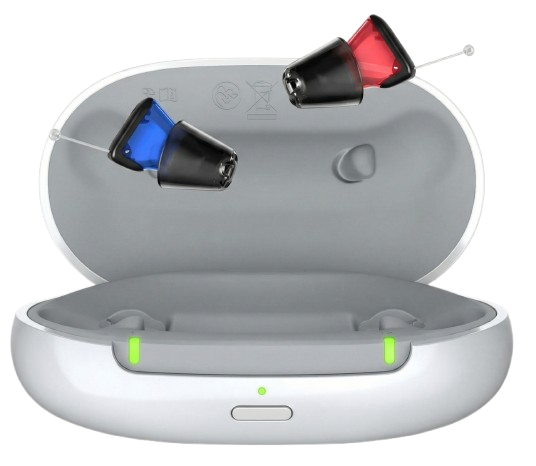
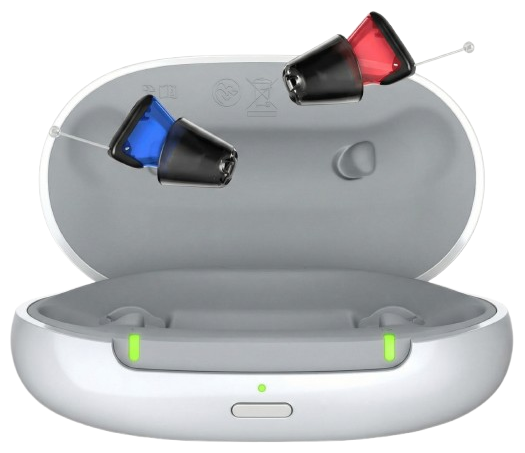
feat(landing): update Widex hero image and brand/clinic landing footer components

diff --git a/src/app/landing/brand-near-me/[brand]/page.tsx b/src/app/landing/brand-near-me/[brand]/page.tsx
@@ -10,6 +10,7 @@ import FAQAccordion from "./FAQAccordion";
 import { PopupTrigger } from "./PopupTrigger";
 import PopupModal from "./PopupModal";
 import HeroCarousel from "./HeroCarousel";
+import Footer from "@/components/landingHero/fotern";
 import { notFound } from "next/navigation";
 import type { Metadata } from "next";
 import { FaFacebook, FaInstagram, FaYoutube, FaLinkedin } from "react-icons/fa";
@@ -125,28 +126,27 @@ const BRANDS: Record<BrandKey, BrandConfig> = {
   phonak: {
     name: "Phonak",
     seoTitle: "Phonak Hearing Aid Near You | Authorized Clinic – Free Test & Best Price",
-    seoDescription: "Find the nearest authorized Phonak hearing aid clinic. Free hearing test, certified audiologists & best price. Phonak prices from ₹18,000. Book free appointment today.",
+    seoDescription: "Find the nearest authorized Phonak hearing aid clinic. Free hearing test, certified audiologists & best price. Phonak prices from ₹15,000. Book free appointment today.",
     heroH1: "Phonak Hearing Aids Price List 2026",
     heroSubtitle: "Discover the 2026 Phonak Collection. Experience Swiss precision with a Free Clinical Trial at your nearest authorized Phonak center.",
-    urgencyBar: "Limited Trial Slots Available — Authorized Phonak Partner",
+    urgencyBar: "Limited Free Trial Slots Available — Authorized Phonak Partner",
     heroBullets: [
       { icon: <BadgePercent className="w-4 h-4 text-green-600" />, iconBg: "bg-green-100", text: `Save up to <span class="text-green-600 font-bold">₹31,500</span> on Phonak aids` },
-      { icon: <EyeOff className="w-4 h-4 text-blue-600" />, iconBg: "bg-blue-100", text: "Ultra clear sound with Phonak AutoSense AI" },
-      { icon: <HeartHandshake className="w-4 h-4 text-purple-600" />, iconBg: "bg-purple-100", text: "Free Hearing Test at Nearest Clinic" },
+      { icon: <EyeOff className="w-4 h-4 text-blue-600" />, iconBg: "bg-blue-100", text: "Universal Bluetooth — Any Phone" },
+      { icon: <HeartHandshake className="w-4 h-4 text-purple-600" />, iconBg: "bg-purple-100", text: "Swiss Engineering — Lifetime Durability" },
     ],
     ctaText: "Download Phonak Price List",
     heroImages: [
-      { src: "/Phonak-Audeo-Lumity-Slim-hero-webp.webp", alt: "Phonak Audeo Lumity" },
-      { src: "/phonak-infinio-hero.webp", alt: "Phonak Infinio" },
-      { src: "/phonak-audeo-p-hero.webp", alt: "Phonak Audeo P" },
+      { src: "/hearwave/phonak-hero-final.png", alt: "Phonak Hearing Aid" },
     ],
     formHeading: "Download Phonak Prices & Claim Free Trial",
     formSubtitle: "Get the full 2026 Phonak Price List instantly — free callback within minutes.",
-    productSectionHeading: "2026 Phonak Model Comparison",
+    productSectionHeading: "Phonak 2026 Model Comparison",
     tableProducts: [
-      { name: "Phonak Audeo Lumity", image: "/Phonak-Audeo-Lumity-Slim-hero-webp.webp", bestFor: "Versatility", features: "SmartSpeech Tech, Universal Bluetooth, Waterproof", tech: "Advanced", techColor: "bg-blue-50 text-blue-700 border-blue-100" },
-      { name: "Phonak Infinio", image: "/phonak-infinio-hero.webp", bestFor: "Best Performance", features: "Chip-based AI, Hands-free calls, Slim RIC", tech: "Premium AI", techColor: "bg-purple-50 text-purple-700 border-purple-100" },
-      { name: "Phonak Audeo P", image: "/phonak-audeo-p-hero.webp", bestFor: "Smart Lifestyle", features: "AutoSense OS, Health Tracking, Falls Detection", tech: "Advanced", techColor: "bg-blue-50 text-blue-700 border-blue-100" },
+      { name: "Phonak Terra+", image: "/hearwave/phonak-terra-plus.png", bestFor: "First-time users", features: "Clear Sound, Swiss Engineering, Lightweight", tech: "Essential", techColor: "bg-green-50 text-green-700 border-green-100" },
+      { name: "Phonak Sky Lumity", image: "/hearwave/phonak-sky-lumity.png", bestFor: "Children", features: "Pediatric Optimised, Rugged Design, Bluetooth", tech: "Advanced", techColor: "bg-blue-50 text-blue-700 border-blue-100" },
+      { name: "Phonak Naída Lumity", image: "/hearwave/phonak-naida-lumity.png", bestFor: "Severe hearing loss", features: "High Power BTE, SmartSpeech, Roger Ready", tech: "Advanced", techColor: "bg-blue-50 text-blue-700 border-blue-100" },
+      { name: "Phonak Audéo Infinio", image: "/hearwave/phonak-audeo-infinio.jpg", bestFor: "Premium users", features: "AutoSense OS 5.0, Dual Bluetooth, Waterproof", tech: "Premium AI", techColor: "bg-purple-50 text-purple-700 border-purple-100" },
     ],
     reviewTexts: [
       "Got my Phonak Audeo fitted at Insono. The AutoSense AI is incredible — adjusts automatically in every environment. Highly recommend!",
@@ -160,10 +160,10 @@ const BRANDS: Record<BrandKey, BrandConfig> = {
   widex: {
     name: "Widex",
     seoTitle: "Widex Hearing Aid Near You | Authorized Clinic – Free Test & Best Price",
-    seoDescription: "Find the nearest authorized Widex hearing aid clinic. Free hearing test, certified audiologists & best price. Widex prices from ₹20,000. Book free appointment today.",
+    seoDescription: "Find the nearest authorized Widex hearing aid clinic. Free hearing test, certified audiologists & best price. Widex prices from ₹15,000. Book free appointment today.",
     heroH1: "Widex Hearing Aids Price List 2026",
     heroSubtitle: "Experience the world's most natural hearing technology with a Free Clinical Trial at your nearest authorized Widex center.",
-    urgencyBar: "Limited Trial Slots Available — Authorized Widex Partner",
+    urgencyBar: "Limited Free Trial Slots Available — Authorized Widex Partner",
     heroBullets: [
       { icon: <BadgePercent className="w-4 h-4 text-green-600" />, iconBg: "bg-green-100", text: `Save up to <span class="text-green-600 font-bold">₹31,500</span> on Widex aids` },
       { icon: <EyeOff className="w-4 h-4 text-blue-600" />, iconBg: "bg-blue-100", text: "Natural sound with Widex PureSound technology" },
@@ -171,14 +171,16 @@ const BRANDS: Record<BrandKey, BrandConfig> = {
     ],
     ctaText: "Download Widex Price List",
     heroImages: [
-      { src: "/signia_bct2.png", alt: "Widex Hearing Aid" },
+      { src: "/hearwave/widex-hero.png", alt: "Widex Hearing Aid" },
     ],
     formHeading: "Download Widex Prices & Claim Free Trial",
     formSubtitle: "Get the full 2026 Widex Price List instantly — free callback within minutes.",
-    productSectionHeading: "2026 Widex Model Comparison",
+    productSectionHeading: "Widex 2026 Model Comparison",
     tableProducts: [
-      { name: "Widex MOMENT Sheer", image: "/signia_bct2.png", bestFor: "Purest Sound", features: "ZeroDelay Tech, Natural Sound, Rechargeable", tech: "Advanced", techColor: "bg-blue-50 text-blue-700 border-blue-100" },
-      { name: "Widex EVOKE 440", image: "/signia_bct2.png", bestFor: "AI Powered", features: "Machine Learning, Fluid Sound, App Control", tech: "Premium AI", techColor: "bg-purple-50 text-purple-700 border-purple-100" },
+      { name: "Widex MOMENT Sheer", image: "/hearwave/widex-hero.png", bestFor: "Purest Sound", features: "ZeroDelay Tech, Natural Sound, Rechargeable", tech: "Advanced", techColor: "bg-blue-50 text-blue-700 border-blue-100" },
+      { name: "Widex EVOKE 440", image: "/lp/widex2.png", bestFor: "AI Powered", features: "Machine Learning, Fluid Sound, App Control", tech: "Premium AI", techColor: "bg-purple-50 text-purple-700 border-purple-100" },
+      { name: "Widex MOMENT IIC", image: "/lp/widex3.png", bestFor: "Discreet Fit", features: "Invisible In-Canal, Custom Fit, PureSound", tech: "Advanced", techColor: "bg-blue-50 text-blue-700 border-blue-100" },
+      { name: "Widex Magnify", image: "/lp/widex4.png", bestFor: "Great Value", features: "Rechargeable, Smartphone Streaming, Comfort", tech: "Essential", techColor: "bg-green-50 text-green-700 border-green-100" },
     ],
     reviewTexts: [
       "Got my Widex Moment fitted at Insono. The PureSound technology is incredible — the most natural sound I've ever heard. Highly recommend!",
@@ -244,7 +246,7 @@ export default async function BrandNearMePage({ params }: { params: Promise<{ br
       <style dangerouslySetInnerHTML={{
         __html: `
           header.bg-transparent,
-          footer,
+          footer:not(.landing-footer),
           div.fixed.bottom-0.left-0.right-0:not(.bnm-bottom-bar) { display: none !important; }
           body { padding-top: 0 !important; }
           @keyframes bnm-up {
@@ -707,20 +709,7 @@ export default async function BrandNearMePage({ params }: { params: Promise<{ br
       </section>
 
       {/* ── FOOTER ── */}
-      <footer className="py-12 md:py-16 bg-white border-t border-slate-100 text-center">
-        <div className="max-w-7xl mx-auto px-4 md:px-8 lg:px-12 flex flex-col items-center">
-          <Image src="/logo.webp" alt="Insono Logo" width={130} height={42} className="h-10 w-auto object-contain mb-6" />
-          <div className="flex space-x-6 mb-6 text-slate-400">
-            <a href="https://youtube.com/@insonohearing" target="_blank" rel="noopener noreferrer" className="hover:text-[#184A99] transition-colors"><FaYoutube size={20} /></a>
-            <a href="https://www.instagram.com/insono_hearing_solutions" target="_blank" rel="noopener noreferrer" className="hover:text-[#184A99] transition-colors"><FaInstagram size={20} /></a>
-            <a href="https://www.facebook.com/insonohearingsolution" target="_blank" rel="noopener noreferrer" className="hover:text-[#184A99] transition-colors"><FaFacebook size={20} /></a>
-            <a href="https://www.linkedin.com/company/insonohearing" target="_blank" rel="noopener noreferrer" className="hover:text-[#184A99] transition-colors"><FaLinkedin size={20} /></a>
-          </div>
-          <p className="text-slate-400 text-sm font-medium">
-            © 2026 Insono Hearing Solutions · {config.footerLabel}. All rights reserved.
-          </p>
-        </div>
-      </footer>
+      <Footer />
 
       {/* ── MOBILE STICKY BOTTOM BAR ── */}
       <div className="bnm-bottom-bar md:hidden fixed bottom-0 left-0 right-0 z-[9999] bg-white shadow-[0_-4px_20px_rgba(0,0,0,0.1)] border-t border-slate-100 flex">

diff --git a/src/app/landing/brand-near-me/[brand]/FAQAccordion.tsx b/src/app/landing/brand-near-me/[brand]/FAQAccordion.tsx
@@ -23,22 +23,18 @@ const BRAND_FAQS: Record<BrandKey, { q: string; a: string }[]> = {
     { q: "Is EMI available on Signia?", a: "Yes, 0% EMI available on selected Signia models." },
   ],
   phonak: [
-    { q: "What is the price of Phonak hearing aids?", a: "Phonak hearing aid prices start from ₹18,000. Call us for the latest offers and discounts." },
-    { q: "Where can I buy Phonak hearing aid near me?", a: "From our authorized Phonak clinic nearest to you. Fill the form to get the address and book a free appointment." },
-    { q: "Are Phonak hearing aids rechargeable?", a: "Yes, premium Phonak rechargeable models are available with full-day battery life." },
-    { q: "Does Phonak support Bluetooth?", a: "Yes, direct calls & music streaming is supported on premium Phonak models." },
-    { q: "Which Phonak model is best?", a: "Audeo Lumity & Paradise series are the most popular. Our audiologist will guide you based on your hearing profile." },
-    { q: "Is EMI available on Phonak?", a: "Yes, 0% EMI options are available on selected Phonak models." },
-    { q: "What warranty comes with Phonak?", a: "2–4 years manufacturer warranty included with all Phonak models." },
+    { q: "What is the price of Phonak hearing aids in India?", a: "Phonak hearing aid prices in India start from ₹15,000. Exact pricing depends on the model and technology level. Fill the form above to unlock the complete Phonak 2026 price list." },
+    { q: "Does Insono offer EMI on Phonak hearing aids?", a: "Yes, 0% EMI options starting from ₹2,500/month are available on selected Phonak hearing aid models." },
+    { q: "Why is Phonak considered the best for connectivity?", a: "Phonak hearing aids feature universal Bluetooth technology that connects directly to any smartphone (Android & iPhone), smart TVs, and laptops for crystal clear calls and audio streaming." },
+    { q: "Does Insono provide home trials for Phonak?", a: "Yes, we offer free clinical trials and home trials so you can experience Phonak sound quality in your daily environment before purchasing." },
+    { q: "Is there an exchange offer for my old hearing aids?", a: "Yes! We offer attractive trade-in and exchange discounts when upgrading your old hearing aid to a new 2026 Phonak model." },
   ],
   widex: [
-    { q: "What is the price of Widex hearing aids?", a: "Widex hearing aids start from ₹20,000 onwards. Prices vary based on model and technology level." },
-    { q: "Are Widex hearing aids rechargeable?", a: "Yes, Widex Moment series is available in rechargeable variants with all-day battery." },
-    { q: "Does Widex support Bluetooth?", a: "Yes, Widex supports Bluetooth for calls & music on compatible devices." },
-    { q: "What warranty does Widex provide?", a: "Widex provides up to 4 years of manufacturer warranty on most models." },
-    { q: "Which Widex model is best?", a: "Widex Moment is the most popular model known for its PureSound technology." },
-    { q: "Is EMI available on Widex?", a: "Yes, easy EMI options are available on Widex hearing aids." },
-    { q: "Do you offer free hearing test for Widex?", a: "Yes, free audiologist consultation and hearing test is available." },
+    { q: "What is the price of Widex hearing aids in India?", a: "Widex hearing aid prices in India start from ₹15,000. Exact pricing depends on the model and technology level. Fill the form above to unlock the complete Widex 2026 price list." },
+    { q: "Does Insono offer EMI on Widex hearing aids?", a: "Yes, 0% EMI options starting from ₹2,500/month are available on selected Widex hearing aid models." },
+    { q: "What makes Widex PureSound technology unique?", a: "Widex PureSound eliminates the artificial, delayed sound common in other hearing aids, providing the most natural sound experience." },
+    { q: "Are Widex hearing aids rechargeable?", a: "Yes, Widex MOMENT series features ultra-compact rechargeable options with all-day battery life." },
+    { q: "Does Insono offer free hearing test for Widex?", a: "Yes, we offer a 100% FREE hearing test & trial by certified Widex audiologists at our nearest clinic." },
   ],
 };
 

diff --git a/src/app/landing/clinic/[city]/page.tsx b/src/app/landing/clinic/[city]/page.tsx
@@ -7,8 +7,8 @@ import { PopupTrigger } from "../PopupTrigger";
 import PopupModal from "../PopupModal";
 import LeadForm from "../LeadForm";
 import FAQAccordion from "../FAQAccordion";
+import Footer from "@/components/landingHero/fotern";
 import { Metadata } from "next";
-import { FaFacebook, FaInstagram, FaYoutube, FaLinkedin } from "react-icons/fa";
 
 interface LandingClinic extends Clinic {
   noGmb?: boolean;
@@ -167,7 +167,7 @@ export default async function ClinicCityLandingPage({
         __html: `
           /* Hide global LandingNav elements completely on this page */
           header.bg-transparent,
-          footer,
+          footer:not(.landing-footer),
           div.fixed.bottom-0.left-0.right-0:not(.custom-bottom-bar) {
             display: none !important;
           }
@@ -517,31 +517,8 @@ export default async function ClinicCityLandingPage({
       </section>
 
       {/* ── FOOTER ── */}
-      <footer className="py-12 md:py-16 bg-white border-t border-slate-100 text-center">
-        <div className="max-w-6xl mx-auto px-4 flex flex-col items-center">
-          <Image src="/logo.webp" alt="Insono Logo" width={130} height={42} className="h-10 w-auto object-contain mb-6" />
-          
-          {/* Social Links */}
-          <div className="flex space-x-6 mb-6 text-slate-400">
-            <a href="https://youtube.com/@insonohearing" target="_blank" rel="noopener noreferrer" className="hover:text-[#184A99] transition-colors">
-              <FaYoutube size={20} />
-            </a>
-            <a href="https://www.instagram.com/insono_hearing_solutions" target="_blank" rel="noopener noreferrer" className="hover:text-[#184A99] transition-colors">
-              <FaInstagram size={20} />
-            </a>
-            <a href="https://www.facebook.com/insonohearingsolution" target="_blank" rel="noopener noreferrer" className="hover:text-[#184A99] transition-colors">
-              <FaFacebook size={20} />
-            </a>
-            <a href="https://www.linkedin.com/company/insonohearing" target="_blank" rel="noopener noreferrer" className="hover:text-[#184A99] transition-colors">
-              <FaLinkedin size={20} />
-            </a>
-          </div>
-
-          <p className="text-slate-400 text-sm font-medium">
-            © 2026 Insono Hearing Solutions · {displayName}. All rights reserved.
-          </p>
-        </div>
-      </footer>
+      {/* ── FOOTER ── */}
+      <Footer />
 
       {/* ── CUSTOM STICKY MOBILE BOTTOM BAR ── */}
       <div className="custom-bottom-bar md:hidden fixed bottom-0 left-0 right-0 z-[9999] bg-white shadow-[0_-4px_20px_rgba(0,0,0,0.1)] border-t border-slate-100 flex">

diff --git a/src/app/landing/brand-near-me/[brand]/HeroCarousel.tsx b/src/app/landing/brand-near-me/[brand]/HeroCarousel.tsx
@@ -23,7 +23,7 @@ export default function HeroCarousel({ images }: { images: ImageItem[] }) {
 
   return (
     <div className="-mx-4 lg:mx-0 order-first lg:order-2 lg:col-start-2 flex flex-col justify-center items-center w-full bnm-scale">
-      <div className="relative w-full h-[240px] lg:h-[380px] flex items-center justify-center">
+      <div className="relative w-full max-w-[300px] lg:max-w-[360px] h-[240px] lg:h-[310px] mx-auto flex items-center justify-center">
         {images.map((img, i) => (
           <div
             key={i}
@@ -36,8 +36,7 @@ export default function HeroCarousel({ images }: { images: ImageItem[] }) {
               alt={img.alt}
               fill
               priority={i === 0}
-              sizes="(max-width: 1024px) 100vw, 450px"
-              className="object-contain drop-shadow-xl lg:drop-shadow-[0_20px_50px_rgba(24,74,153,0.15)]"
+              className="object-contain drop-shadow-xl lg:drop-shadow-[0_20px_50px_rgba(24,74,153,0.15)] lg:mix-blend-multiply"
             />
           </div>
         ))}

diff --git a/src/app/landing/brand-near-me/[brand]/PopupModal.tsx b/src/app/landing/brand-near-me/[brand]/PopupModal.tsx
@@ -68,7 +68,11 @@ export default function PopupModal({
                 <ul className="space-y-2">
                   {(city !== "Hearing Aid" && city !== "generic"
                     ? [
-                        `All ${city} models (Silk, Styletto, Pure & Motion)`,
+                        city.toLowerCase().includes("phonak")
+                          ? "All Phonak models (Lumity, Infinio, Naida & Terra)"
+                          : city.toLowerCase().includes("widex")
+                          ? "All Widex models (Moment, SmartRIC, Evoke & Unique)"
+                          : `All ${city} models (Silk, Styletto, Pure & Motion)`,
                         `Official ${city} prices with EMI breakdown`,
                         `Side-by-side ${city} feature comparison chart`,
                         `Exclusive ${city} clinic discount`,

diff --git a/src/components/landingHero/fotern.tsx b/src/components/landingHero/fotern.tsx
@@ -3,7 +3,7 @@ import { FaFacebook, FaInstagram, FaYoutube, FaLinkedin } from "react-icons/fa";
 
 export default function Footer() {
   return (
-    <footer className="bg-gray-900 text-gray-300 pt-12 pb-6">
+    <footer className="landing-footer bg-gray-900 text-gray-300 pt-12 pb-6">
       <div className="max-w-6xl mx-auto px-4 sm:px-6">
         <div className="border-gray-700 pt-6 flex flex-col md:flex-row items-center justify-between text-sm space-y-4 md:space-y-0">
           {/* Social Icons */}
